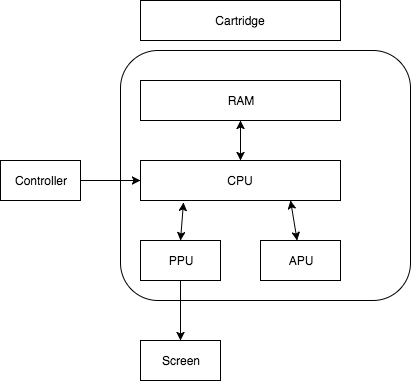
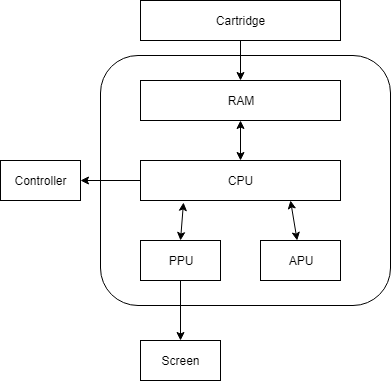
Update nes-emu-1

diff --git a/_drafts/nes-emu-1.md b/_drafts/nes-emu-1.md
@@ -1,37 +1,65 @@
-# Writing your own NES emulator - how emulators work 
+---
+layout: post
+title:  "Writing your own NES emulator - writing the main loop"
+date:   2018-02-22
+description: Writing your own NES emulator - writing the main loop
+permalink: nes-emu-main-loop
+comments: true
+excerpt_separator: <!--more-->
+permalink: nes-emu-main-loop
+comments: true
+categories:
+- nes 
+- emulator
+---
 
-Fundamentally, a emulator is a software that attempts to replicate the behavior of hardware.  
+## Emulating hardware using software
 
-In theory, one can build a simulator that exactly replicates the hardware behavior on transistor level. For example, [visual6502.org](http://visual6502.org/) has [javascript based simulation](https://github.com/trebonian/visual6502) that simulates 6502 CPU in this manner. 
+Fundamentally, a emulator is a software that attempts to replicate the behavior of hardware.
+
+In theory, one can build a simulator that exactly replicates the hardware behavior on transistor level. For example, [visual6502.org](http://visual6502.org/) has [javascript based simulation](https://github.com/trebonian/visual6502) that simulates 6502 CPU in this manner.
 
 One can imagine once you have the entire hardware mapped out to transistors as a table, the entire simulation can be completely table driven. However, it is probably not too hard to imagine such approach might not have desirable performance. And writing such code and debugging such tables is going to be extremely hard. Just imagine - you are no longer debugging code, but actually debugging your table to find the 'missing/incorrect wire', making this impractical for most emulation authors, other than the electronic hacker/software engineer wizard. Such people are rare these days (I'm certainly not one of them).
 
-Another approach is to replicate only the behavior that is observable to the software (the games) and the player. Basically, given the input, you'll need to implement the middle blackbox that gives the exact output.
+The more common approach is to replicate only the behavior that is observable to the software (the games) and the player. Basically, given the input, you'll need to implement the middle blackbox that gives the exact output.
 
 ![nes](nes.png)
 
-This is what happens when you insert a cartridge:
+Let's take a look at what happens when you insert a cartridge into the system:
+
 * Cartridge maps its ROM contents into RAM / 16-bit address space
+
 * CPU starts running code
+
 * Code wait for the PPU to initialize
+
 * Code starts to read its CHR ROM and write data into PPU to show you a title screen
+
 * Code starts to read its ROM data and writes to APU registers - this gets you the wonderful 8-bit sound
+
 * Code waits for your input to make selection and start in the title screen
+
 * Once you press start, game loads more data into PPU, run the main game loop, and respond to your inputs accordingly
 
-There are a lot of steps here, but there is one more thing that isn't obvious - all the hardware (CPU, APU, PPU) runs in parallel.
-
-The trickiest part is *timing* - to make sure all hardware synchronize to each other properly.
+There are a lot of steps here. But it's easy to see that CPU is really the main one that drives the execution. Even though other components also does its own function - they are fundamentally driven by interaction with the CPU. Player interaction with the system is also through the controller which only CPU can interact and read its value. Put in other words, CPU is the brain. 
 
 ## Timing is everything
 
-Hardware are naturally parallelized - CPU, APU, PPU, etc all of them runs in parallel and communicate to each other in real time. They run at their own pace that is proportional to a "master clock". If such pacing are not emulated, programs might not work correctly, when they expect certain order of events when running in real hardware. 
+There is one more thing that isn't obvious if you haven't thought about it before - all the hardware (CPU, APU, PPU) runs in parallel. They communicate to each other in real time, run at their own pace that is proportional to a "master clock", and go about doing its work:
+
+* For CPU, it means executing instructions. 
+
+* For PPU, it means drawing background and sprites based on PPU RAM. 
+
+* For APU, it means output square waves using values set from registers, etc. 
+
+If such pacing are not emulated, programs might not work correctly, when they expect certain order of events when running in real hardware.
 
 You might think those programmers back in the days are code wizards that are doing these things to simply show off their programming chops. But this is not the case.
 
-Today's well-behaved program usually doesn't take dependency on such timing on hardware - there are well established programming conventions such as callbacks (I'll call you if I need data), buffers (here are the data, go render/play it until I say otherwise), etc. There are enough processor speed and RAM to make that happen.
+In the NES days, every game runs at 60fps, and programmers only have so much time to update their screen each frame, and they have to carefully count their instructions to fit in the narrow window to update the background / sprites. By counting I literally mean bring out a huge referencec manual, calculate how long each instruction takes, and add them all together. In cases where they accidentally run more than needed, frames can be skipped causing slowdowns. Even today's game struggle to render 60 frames per second - if you think about it, you only have about 16ms to update each frame - and that's not a lot of time. And try that in a 1.7MHZ CPU (it's not a typo) in the 80s.
 
-However, in the NES days, programmers only have so much time to update their screen each frame, and they have to carefully count their instructions to fit in, and in cases where they accidentally run more than needed, frames can be skipped causing slowdowns. And they also try to fully utilize (in other words, one might say abuse) limited processing power to do interesting effects, such as changing scrolling parameters mid-frame so that status bar doesn't move, etc. All these require timing to be accurate enough for those programs to function. Of course, there are straight-forward games that doesn't depend on timing that much. 
+Some games also try to fully utilize (in other words, one might say abuse) limited processing power to do interesting effects, such as changing scrolling parameters mid-frame so that status bar doesn't move, etc. All these require timing to be accurate enough for those programs to function - you need to change the scrolling parameter exactly when PPU is drawing that scanline. Of course, there are straight-forward games that doesn't depend on timing that much (like the early titles). But if you want your emulator to run as many games as possible, you'll need to worry about it.
 
 ## Implementing the timing
 
@@ -39,33 +67,77 @@ In terms of implementation, there are a few approaches as far as I can tell. Not
  
 ### Using dedicated cores for each hardware component running in parallel
 
-As discussed before, imagine if you have dedicated cores for each component and they can be guaranteed to be run in parallel. In theory this can achieve fairly accurate timing. 
+As discussed before, imagine if you have dedicated cores for each component and they can be guaranteed to be run in parallel without being interrupted by other threads.
 
-Do keep in mind that code running on each core doesn't run exactly at the correct hardware speed - they need to be synchronized to an internal clock cycle. This pretty much means that they need to synchronize *every* cycle. In practice this can be implemented as a common counter shared by all cores and checking counter every step of the way - and keep spinning if the counter isn't what is expected. 
- 
-However, in practice this is rarely done because not every one has enough cores to dedicate to run your best NEs emulator ever. You need at least 3 cores (CPU, PPU, APU). This means user would have at least 4 cores. And for every subcomponent (for example, PPU also have its own subchannels that runs their own pace), you also might need additional cores (or take a hybrid approach - see below).
+Do keep in mind that code running on each core doesn't run exactly at the correct hardware speed - they need to be synchronized to an internal clock cycle. For best accuracy, you might need to synchronize *every* cycle, or you can relax it to every X number of cycles (or the next important cycle). In practice this can be implemented as a common counter shared by all cores and checking counter every step of the way - and keep spinning if the counter isn't what is expected.
+
+However, in practice this is rarely done because not every one has enough cores to dedicate to run your best NES emulator ever. You need at least 3 cores (CPU, PPU, APU). This means user would have at least 4 cores. And for every subcomponent (for example, PPU also have its own subchannels that runs their own pace), you also might need additional cores (or take a hybrid approach - see below). In a dedicated hardware such as consoles, such approach might be acceptable. But in PCs today it is rarely worth it. Maybe in some day when everybody has 16 cores. Maybe.
 
 ### Running all components in one thread, one cycle at a time
 
-In theory this would work out pretty great. But in practice this means each component needs to be able to execute in cycle granaruity. For PPU/APU this is less challenging because they tend to do one single job and managing states of that isn't too bad. For CPU instructions it is more involved, as instructions take multiple cycles, depending on many different factors. You need to be able to "suspend" mid-instruction, and "resume" running the instruction. This usually means maintain each instruction itself as an table of steps, and maintaining which instruction you are in and which step it is, as if the entire CPU is a finite state machine. For example, ADC instruction (add with carry) with absolute address (16-bit address) is on a high-level consists of a few steps:
+Essentially, this is multi-threading in a single-thread. Every component gets a slice of time to execute, and yield to the next component when it finishes the work for exactly one cycle. Rinse and repeat.
+
+This doesn't look bad on the surface, until you realize operations typically take more than one cycles to complete. Take CPU instructions for example - CPU instructions take multiple cycles, depending on many different factors (which adderss mode it is using, which instruction it is, etc). You need to be able to *suspend* mid-instruction, and *resume* running the instruction. This usually means maintain each instruction itself as an table of steps, and maintaining which instruction you are in and which step it is, as if the entire CPU is a finite state machine.
+
+For example, ADC instruction (add with carry) with absolute address (16-bit address) is on a high-level consists of a few steps:
+
     * fetch opcode (ADC), PC++
+
     * fetch low-byte (for 16-bit addr), PC++
+
     * fetch high-byte (for 16-bit addr), PC++
+
     * read from address, PC++
 
 Interestingly, having state machines that allow suspension/resume isn't new. Many languages/compilers are adding support for async/await pattern which solves this exact problem - await become suspension points that program can suspend and then resume when the pending operation is complete. The compiler is repsonsible for generating the state machine. Imagine if the async/await infra is augmented to understand clock cycles, and it'll suspend if the desired cycles are already met. I haven't explored this approach further, but I can imagine there are ways to make it work in C++ using C++ coroutines.
 
-The more straight-forward approach (though tedious) is to implement each step as a operation, and manually maintain a state machine to suspend/resume as needed.  
+The more straight-forward approach (though tedious) is to implement each step as a operation, and manually maintain a state machine that knows the current instruction and the index to the current operation inside the instruction, and execute one operation at a time. This is not that different than compiler generated suspend/resume state machine, except you'll need to hand craft it.
 
 ### Run CPU one instruction at a time, other components catch up
 
-This one is a bit more straight-forward, until it breaks. You execute one instruction at a time, advance the internal CPU clock cycle, and ask all the other components to catch up until that cycle is complete. This is obviously less accurate, but is usually good enough, until you run into cases where certain components needs to observe state mid-instruction. This can be mitigated by logging the state changes (but don't apply them yet), and compare the state access with the log to determine whether the state change should be visible up to what point. And apply them when all components are done. This is somewhat similar to a transactional processing system where all changes are logged and applied at the end of transaction (one CPU instruction) - except that the changes are not strictly isolated (in other words, observable by other components running "in parallel").
+This one is very similar to the last one - each component execute one unit of work at a time that takes T time, and other component tries to do as much work possible to fix into time T,, and advance its internal clock. Given that CPU is the one running programs, it is natural for the CPU to be the one that execute one instruction at a time, advance its internal clock, and ask everybody else to catch up to the CPU's internal clock.
 
-The real implementations tends to be much more messier. Most emulators tend to follow the "catch up" approach which is the easiest to implement. Given CPU is the one that is controlling everything and running the code, it makes sense for everyone else to catch up to CPU. 
+This is obviously less accurate since the operations are clumped together in one "big" cycle, but is usually good enough, until you run into cases where certain components needs to observe state somewhere within T. This can be mitigated by logging the state changes (but don't apply them yet), and compare the state access with the log to determine whether the state change should be visible up to what point. And apply them when all components are done. This is somewhat similar to a transactional processing system where all changes are logged and applied at the end of transaction (one CPU instruction) - changes are only visible to other components if they have advanced to a certain point after the change is made. Of course, here there is no isolation as everybody can see what everybody else is doing. 
 
-## Challenges
+The real implementations tends to be much more messier. Most emulators tend to follow the "catch up" approach which is the easiest to implement.
 
-* Understanding hardware behavior
-* Timing and cycles
-* Quirks/bugs
+## Writing the main loop
 
+The approach I take in NESChan is a hybrid approach. The main loop drives one cycle at a time - and it's up to each component to decide the cycle granularity of its work.
+
+`nes_system` keeps track of the master clock which all components synchronize to. You call `step(1)` to advance one cycle at a time, and each component catches up to that master clock.
+
+```c++
+
+void nes_system::step(nes_cycle_t count)
+{
+    _master_cycle += count;
+
+    _cpu->step_to(_master_cycle);
+    _ppu->step_to(_master_cycle);
+}
+
+```
+
+Internally, every component decides how it advances its internal clock to the master clock.
+
+For PPU, it can support cycle granuity due to the way it is implemented - it is a giant hand written state machine that replicates exactly what hardware does in each PPU clock cycle. We'll get into more of that in a future post.
+
+For CPU, given that I haven't implemented CPU instructions using arrays (I might have to do that at some point), CPU runs one instruction at a time and advance the clock with the amount of cycles that the instruction took. This means the CPU can overshot the master clock. When the CPU get a step_to call next time, it'll do nothing until it catches up to master clock and execute another instruction. 
+
+```c++
+
+void nes_cpu::step_to(nes_cycle_t new_count)
+{
+    // we are asked to proceed to new_count - keep executing one instruction
+    while (_cycle < new_count && !_system->stop_requested())
+        exec_one_instruction();    // This advances the cycles
+}
+
+```
+
+Obviously this can be further optimized, but in practice this works reasonably well that I didn't find it necessary to optimize.
+
+## What's next
+
+In the next post, I'll be talking about how NES 6502 CPU works, and how to emulate its instructions. It's mostly pretty straight-forward, if not a bit tedious. The addressing mode and memory layout is probably the most interesting part.
